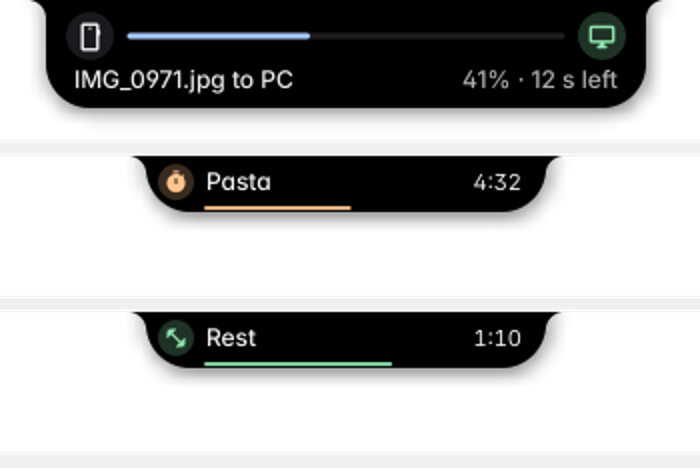
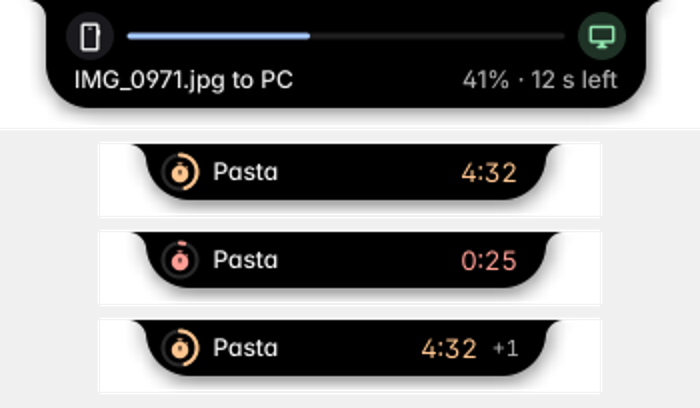
feat(island): small live pill with a progress ring, time in its tone

diff --git a/core/argus/ari/ari_popup.py b/core/argus/ari/ari_popup.py
@@ -494,14 +494,14 @@ def live_scenario(name: str, now: float) -> tuple[list[dict], list[dict]]:
     timer = act("timer", "Pasta", "10 min timer", "timer", started_at=now - 328, ends_at=now + 272)
     soon = act("timer", "Pasta", "10 min timer", "timer", started_at=now - 575, ends_at=now + 25)
     job = act("job", "Downloads organizer: sort", "Moving files \u00b7 step 3", "play_circle", started_at=now - 84)
-    custom = act("custom", "Rest", "Bench press", "fitness_center", started_at=now - 50, ends_at=now + 70)
+    custom = act("custom", "Laundry", "Washer", "timer", started_at=now - 1500, ends_at=now + 1200)
     xfer = {"offer_id": "ab12cd34", "leg": "send", "from": "phone", "to": "pc", "label": "IMG_0971.jpg",
             "done": 41, "total": 100, "eta": 12.2, "state": "moving", "started": now - 5}
     move = act("transfer", "IMG_0971.jpg to PC", "41%", "swap_horiz", id="transfer:ab12cd34:send", progress=0.41,
                started_at=now - 5)
     return {"timer": ([timer], []), "soon": ([soon], []), "timerend": ([{**soon, "ends_at": now - 0.2}], []),
             "job": ([job], []), "custom": ([custom], []), "transfer": ([move], [xfer]),
-            "stack": ([soon, move, timer, job, custom], [xfer]), "plus": ([job, custom], [])}[name]
+            "stack": ([soon, move, timer, job, custom], [xfer]), "plus": ([timer, custom], [])}[name]
 
 
 LIVE_SCENARIOS = ("timer", "soon", "timerend", "job", "custom", "transfer", "stack", "plus")
@@ -1492,47 +1492,49 @@ def main(argv: list[str] | None = None) -> int:  # noqa: C901 - one window, draw
                 qp.drawLine(QPointF(x0, y), QPointF(x0 + (x1 - x0) * max(0.02, frac), y))
 
         def draw_small(self, qp: Any, body: Any, a: dict, extra: int) -> None:
-            """Something live, at rest: a small tone dot with the icon, the name, the time or percent on the right
-            (+N when there are more), and the progress as a hairline along the bottom edge."""
+            """Something live, at rest, on one line: the icon inside a thin ring that drains (a timer) or fills
+            (progress), the name, and the time in the activity's tone on the right (+N when there are more)."""
             now = self.now()
             tone = QColor(live_tone(a, now))
             title, _detail, right = live_words(a, now)
             pulse = timer_pulse(time.monotonic(), self.ended) if a.get("kind") == "timer" else 0.0
             qp.setOpacity(max(0.0, min(1.0, (self.spring.h - 14) / 10)))
-            cy = body.center().y() - 1
-            ix = body.x() + 15
-            qp.setPen(Qt.PenStyle.NoPen)
-            qp.setBrush(tint(tone.name(), 0.22 + 0.4 * pulse))
-            rr = 9 + (2 * pulse if not self.still else 0)
-            qp.drawEllipse(QPointF(ix, cy), rr, rr)
-            self.symbol(qp, live_icon(a), ix, cy, 12, tone, filled=True)
-            right_edge = body.right() - 12
+            cy = body.center().y()
+            ix = body.x() + 17
+            rr = 8.5 + (1.5 * pulse if not self.still else 0)
+            ring = QRectF(ix - rr, cy - rr, 2 * rr, 2 * rr)
+            qp.setBrush(Qt.BrushStyle.NoBrush)
+            qp.setPen(QPen(ink(0.16), 2))
+            qp.drawEllipse(ring)
+            how, frac = live_line(a, now)
+            if how in ("fill", "drain") and frac > 0:
+                arc = QPen(tone, 2)
+                arc.setCapStyle(Qt.PenCapStyle.RoundCap)
+                qp.setPen(arc)
+                qp.drawArc(ring, 90 * 16, -int(360 * 16 * max(0.03, frac)))  # from the top, clockwise
+            elif pulse:
+                qp.setPen(QPen(tone, 2))
+                qp.drawEllipse(ring)
+            self.symbol(qp, live_icon(a), ix, cy, 11, tone, filled=True)
+            right_edge = body.right() - 14
             if extra:
                 qp.setFont(F_TINY)
                 chip = f"+{extra}"
                 cw = QFontMetrics(F_TINY).horizontalAdvance(chip)
                 qp.setPen(ink(DIM))
                 qp.drawText(QRectF(right_edge - cw, cy - 8, cw + 1, 16), RIGHT_MID, chip)
-                right_edge -= cw + 7
-            qp.setFont(F_TINY)
-            rw = QFontMetrics(F_TINY).horizontalAdvance(right) if right else 0
+                right_edge -= cw + 6
+            qp.setFont(F_VALUE)
+            rw = QFontMetrics(F_VALUE).horizontalAdvance(right) if right else 0
             if right:
-                qp.setPen(ink(0.92))
-                qp.drawText(QRectF(right_edge - rw - 1, cy - 8, rw + 1, 16), RIGHT_MID, right)
-            tx = ix + 15
-            tw = right_edge - tx - (rw + 8 if right else 0)
+                qp.setPen(tone)
+                qp.drawText(QRectF(right_edge - rw - 1, cy - 9, rw + 1, 18), RIGHT_MID, right)
+            tx = ix + rr + 8
+            tw = right_edge - tx - (rw + 10 if right else 0)
             qp.setFont(F_CHIP)
             qp.setPen(ink(0.95))
             qp.drawText(QRectF(tx, cy - 9, tw, 18), Qt.AlignmentFlag.AlignVCenter,
                         QFontMetrics(F_CHIP).elidedText(title, Qt.TextElideMode.ElideRight, int(max(0, tw))))
-            how, frac = live_line(a, now)
-            if how in ("fill", "drain") and frac > 0:  # a hairline: how far along, without a second row
-                y = body.bottom() - 2
-                pen = QPen(tone, 2)
-                pen.setCapStyle(Qt.PenCapStyle.RoundCap)
-                qp.setPen(pen)
-                qp.setOpacity(qp.opacity() * 0.9)
-                qp.drawLine(QPointF(tx, y), QPointF(tx + (right_edge - tx) * max(0.03, frac), y))
             qp.setOpacity(1)
 
         def draw_pill(self, qp: Any, body: Any, a: dict, extra: int) -> None:
